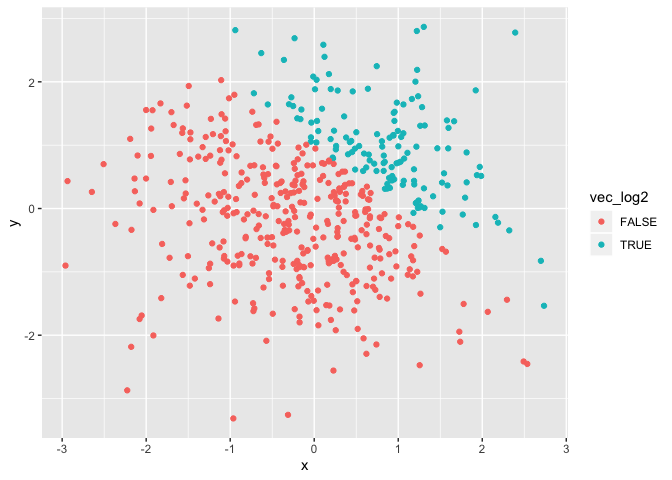
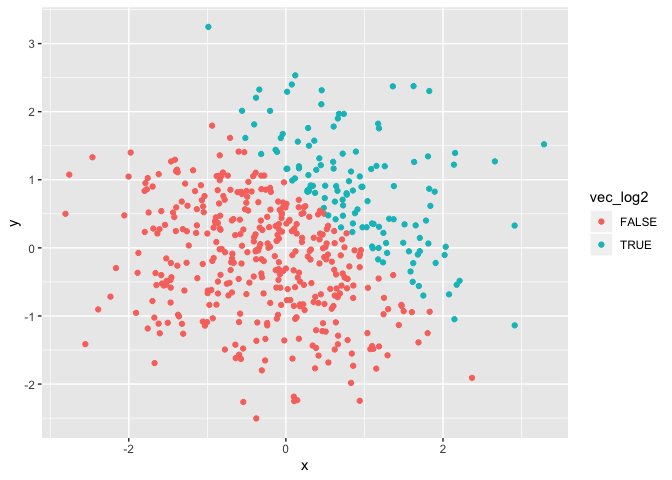
Adding scatterplots to my project.

diff --git a/p8105_hw1_Ec3342.md b/p8105_hw1_Ec3342.md
@@ -40,7 +40,7 @@ first_df = tibble(
 mean(pull(first_df,norm_samp)) 
 ```
 
-    ## [1] 0.2997559
+    ## [1] -0.1824306
 
 ``` r
 mean(pull(first_df,vec_log))
@@ -112,7 +112,8 @@ vector into numeric and then multiplied that with the random
 as.numeric(pull(first_df,vec_log))*(pull(first_df,norm_samp))
 ```
 
-    ## [1] 2.183197 1.240761 0.000000 1.474845 0.000000 0.000000 0.000000 0.000000
+    ## [1] 0.0000000 0.0000000 0.5864631 0.0000000 0.0000000 0.6456603 0.4729144
+    ## [8] 0.0000000
 
 ``` r
 as.factor(pull(first_df,vec_log))*(pull(first_df,norm_samp))
@@ -127,8 +128,8 @@ as.factor(pull(first_df,vec_log))*(pull(first_df,norm_samp))
 as.numeric(as.factor(pull(first_df,vec_log)))*(pull(first_df,norm_samp))
 ```
 
-    ## [1]  4.36639454  2.48152238 -1.71443734  2.94969061 -0.04417041 -0.04481098
-    ## [7] -0.53416384 -0.16317409
+    ## [1] -0.7102278 -0.3742162  1.1729263 -1.4691535 -0.3107644  1.2913206
+    ## [7]  0.9458289 -0.3001205
 
 # Question 2
 
@@ -156,32 +157,41 @@ vec_fac = as.factor(vec_log2),
 ## Description of the dataframe
 
   - The size of the dataframe is 500 and the number of columns are 5
-  - The mean of x is 0.0137945
-  - The median of x is 0.0466375
-  - The standard deviation of x is 1.0165461
-  - The proportion of cases for which x + y \> 1 is 0.274
+  - The mean of x is -0.0035982
+  - The median of x is 0.0072956
+  - The standard deviation of x is 1.024109
+  - The proportion of cases for which x + y \> 1 is 0.254
 
 ## Scatterplot
 
-\#Creating a scatterplot of y vs x that color points using the logical
-variable, a second scatterplot that color points using the numeric
-variables, and a third scatterplot that color plots using the factor
-variables.
+\#Creating a scatterplot (plot\_1) of y vs x that color points using the
+logical variable, a second scatterplot (plot\_2) that color points using
+the numeric variables, and a third scatterplot that color plots using
+the factor variables.Exporting the first scatterplot (plot\_1) to my
+project directory using
+ggsave.
 
 ``` r
-ggplot(second_df, aes(x = x, y = y, color = vec_log2)) + geom_point()
+plot_1 = ggplot(second_df, aes(x = x, y = y, color = vec_log2)) + geom_point() 
+plot_1
 ```
 
 ![](p8105_hw1_Ec3342_files/figure-gfm/scatterplot-1.png)<!-- -->
 
 ``` r
-ggplot(second_df, aes(x = x, y = y, color = vec_num)) + geom_point()
+plot_2 = ggplot(second_df, aes(x = x, y = y, color = vec_num)) + geom_point() 
+plot_2
 ```
 
 ![](p8105_hw1_Ec3342_files/figure-gfm/scatterplot-2.png)<!-- -->
 
 ``` r
-ggplot(second_df, aes(x = x, y = y, color = vec_fac)) + geom_point()
+plot_3 = ggplot(second_df, aes(x = x, y = y, color = vec_fac)) + geom_point() 
+plot_3
 ```
 
 ![](p8105_hw1_Ec3342_files/figure-gfm/scatterplot-3.png)<!-- -->
+
+``` r
+ggsave("plot_1.pdf", height = 4, width = 6)
+```
